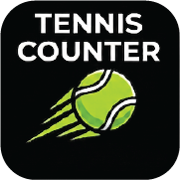
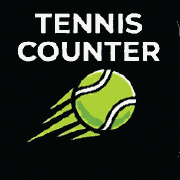
iPhone app: installable PWA
- web app manifest (standalone, portrait, black theme) + 192/512/maskable icons
- service worker: app shell precached, offline play with no signal,
  Google Apps Script sync stays network-only
- 12 iPhone launch screens (splash)
- full-bleed home-screen icon so iOS masking has no white corners
- installed-mode polish: black status-bar strip, overscroll lock,
  no tap highlight / long-press callout, home-indicator inset moved to the
  black footer strip
- iOS-only Add-to-Home-Screen nudge (dismissible) + offline/online toasts

diff --git a/index.html b/index.html
@@ -3,13 +3,36 @@
 <head>
   <meta charset="UTF-8" />
   <meta name="viewport" content="viewport-fit=cover, width=device-width, initial-scale=1.0, maximum-scale=1.0, user-scalable=no" />
-  <meta name="theme-color" content="#ffffff" />
+  <meta name="theme-color" content="#000000" />
+  <meta name="color-scheme" content="light dark" />
   <meta name="apple-mobile-web-app-capable" content="yes" />
+  <meta name="mobile-web-app-capable" content="yes" />
   <meta name="apple-mobile-web-app-status-bar-style" content="black-translucent" />
+  <meta name="apple-mobile-web-app-title" content="TennisCounter" />
+  <meta name="application-name" content="TennisCounter" />
+  <meta name="format-detection" content="telephone=no" />
   <title>TENNIS COUNTER · 網球表現追蹤</title>
-  <link rel="icon" href="/apple-touch-icon.png" />
-  <!-- Main Apple Touch Icon for iPhone Home Screen -->
+
+  <!-- Installable app -->
+  <link rel="manifest" href="/manifest.webmanifest">
+  <link rel="icon" href="/icon-192.png" sizes="192x192" type="image/png">
+  <!-- Home-screen icon (iOS ignores the manifest icons and uses this) -->
   <link rel="apple-touch-icon" sizes="180x180" href="/apple-touch-icon.png">
+
+  <!-- Launch screens -->
+  <link rel="apple-touch-startup-image" media="screen and (device-width: 440px) and (device-height: 956px) and (-webkit-device-pixel-ratio: 3)" href="/splash/splash-1320x2868.png">
+  <link rel="apple-touch-startup-image" media="screen and (device-width: 402px) and (device-height: 874px) and (-webkit-device-pixel-ratio: 3)" href="/splash/splash-1206x2622.png">
+  <link rel="apple-touch-startup-image" media="screen and (device-width: 393px) and (device-height: 852px) and (-webkit-device-pixel-ratio: 3)" href="/splash/splash-1179x2556.png">
+  <link rel="apple-touch-startup-image" media="screen and (device-width: 430px) and (device-height: 932px) and (-webkit-device-pixel-ratio: 3)" href="/splash/splash-1290x2796.png">
+  <link rel="apple-touch-startup-image" media="screen and (device-width: 390px) and (device-height: 844px) and (-webkit-device-pixel-ratio: 3)" href="/splash/splash-1170x2532.png">
+  <link rel="apple-touch-startup-image" media="screen and (device-width: 428px) and (device-height: 926px) and (-webkit-device-pixel-ratio: 3)" href="/splash/splash-1284x2778.png">
+  <link rel="apple-touch-startup-image" media="screen and (device-width: 375px) and (device-height: 812px) and (-webkit-device-pixel-ratio: 3)" href="/splash/splash-1125x2436.png">
+  <link rel="apple-touch-startup-image" media="screen and (device-width: 414px) and (device-height: 896px) and (-webkit-device-pixel-ratio: 3)" href="/splash/splash-1242x2688.png">
+  <link rel="apple-touch-startup-image" media="screen and (device-width: 414px) and (device-height: 896px) and (-webkit-device-pixel-ratio: 2)" href="/splash/splash-828x1792.png">
+  <link rel="apple-touch-startup-image" media="screen and (device-width: 414px) and (device-height: 736px) and (-webkit-device-pixel-ratio: 3)" href="/splash/splash-1242x2208.png">
+  <link rel="apple-touch-startup-image" media="screen and (device-width: 375px) and (device-height: 667px) and (-webkit-device-pixel-ratio: 2)" href="/splash/splash-750x1334.png">
+  <link rel="apple-touch-startup-image" media="screen and (device-width: 320px) and (device-height: 568px) and (-webkit-device-pixel-ratio: 2)" href="/splash/splash-640x1136.png">
+
   <link rel="preconnect" href="https://fonts.googleapis.com">
   <link rel="preconnect" href="https://fonts.gstatic.com" crossorigin>
   <link href="https://fonts.googleapis.com/css2?family=Inter:wght@400;500;700;800;900&display=swap" rel="stylesheet">
@@ -97,7 +120,7 @@
     }
 
     * { box-sizing: border-box; }
-    html, body { height: 100%; overflow-x: clip; }
+    html, body { height: 100%; overflow-x: clip; -webkit-tap-highlight-color: transparent; }
     body {
       margin: 0;
       font-family: var(--font-body);
@@ -215,7 +238,7 @@
       background: var(--canvas);
       border-top: 1px solid var(--border-2);
       display: grid; grid-template-columns: repeat(4, 1fr);
-      padding: 6px 8px calc(env(safe-area-inset-bottom) + 6px);
+      padding: 6px 8px;
     }
     #nav button {
       appearance: none; border: 0; background: transparent; cursor: pointer;
@@ -232,8 +255,23 @@
       background: #000000; color: #ffffff;
       display: flex; align-items: center;
       min-height: var(--footer-h);
-      padding: 6px 18px 8px;
+      padding: 6px 18px calc(env(safe-area-inset-bottom) + 8px);
       font-size: 0.82rem; font-weight: 700; letter-spacing: 0.12em;
+    }
+
+    /* ---------- Installed-app polish (added to iPhone Home Screen) ---------- */
+    button, .chip, #nav button, .theme-toggle, .seg .chip {
+      -webkit-touch-callout: none; -webkit-user-select: none; user-select: none;
+    }
+    @media (display-mode: standalone), (display-mode: fullscreen) {
+      html, body { overscroll-behavior-y: none; }
+      /* iOS draws the clock/battery in white over the app, so keep that strip
+         on-brand black — it mirrors the black "Carpi Diem" strip at the foot. */
+      body::before {
+        content: ""; position: fixed; top: 0; left: 0; right: 0;
+        height: env(safe-area-inset-top); background: #000000;
+        z-index: 60; pointer-events: none;
+      }
     }
 
     /* ---------- Home hero ---------- */
@@ -415,6 +453,28 @@
       z-index: 50; white-space: nowrap;
     }
     .toast.show { opacity: 1; transform: translateX(-50%) translateY(0); }
+
+    /* ---------- "Add to Home Screen" hint (iOS Safari only, dismissible) ---------- */
+    .a2hs {
+      position: fixed; z-index: 45;
+      left: 12px; right: 12px; max-width: 516px; margin: 0 auto;
+      bottom: calc(env(safe-area-inset-bottom) + var(--footer-h) + 84px);
+      display: flex; align-items: center; gap: 10px;
+      background: var(--carbon); color: #ffffff;
+      border-radius: var(--r-m); padding: 10px 12px;
+      box-shadow: 0 12px 32px rgba(0,0,0,0.26);
+      animation: fade 260ms var(--ease-out);
+    }
+    .a2hs[hidden] { display: none; }
+    .a2hs-ic { font-size: 1.35rem; line-height: 1; flex: none; }
+    .a2hs-tx { flex: 1; min-width: 0; display: flex; flex-direction: column; gap: 3px; }
+    .a2hs-tx b { font-size: 0.86rem; font-weight: 800; letter-spacing: -0.01em; }
+    .a2hs-tx i { font-style: normal; font-size: 0.71rem; line-height: 1.35; color: rgba(255,255,255,0.72); }
+    .a2hs-x {
+      appearance: none; border: 0; flex: none; cursor: pointer;
+      width: 26px; height: 26px; border-radius: 999px;
+      background: rgba(255,255,255,0.16); color: #ffffff; font-size: 0.78rem; line-height: 1;
+    }
     .disclaim { text-align: center; color: var(--muted); font-size: 0.72rem; padding: 4px 16px 0; }
     .result-banner { text-align: center; font-family: var(--font-display); font-weight: 900; font-size: 1.4rem; padding: 8px 0 4px; letter-spacing: -0.02em; }
     .result-banner.win { color: var(--white); }
@@ -720,6 +780,14 @@
       <button data-nav="report"><span class="ic">📄</span><span data-i18n="nav_report">報告</span></button>
     </nav>
     <div class="footing" aria-label="標語">Carpi Diem</div>
+  </div>
+  <div class="a2hs" id="a2hs" hidden>
+    <span class="a2hs-ic">🎾</span>
+    <span class="a2hs-tx">
+      <b data-i18n="a2hs_t">加到主畫面</b>
+      <i data-i18n="a2hs_d">撳「分享 ⬆」再揀「加入主畫面」，就可以全螢幕 + 離線用</i>
+    </span>
+    <button class="a2hs-x" type="button" onclick="dismissA2HS()" aria-label="關閉／Close">✕</button>
   </div>
   <div class="toast" id="toast"></div>
 
@@ -1856,6 +1924,8 @@
     /* ---------- Bilingual (i18n) ---------- */
     const I18N = {
       nav_home:["首頁","Home"], nav_record:["記錄","Record"], nav_analysis:["分析","Analysis"], nav_report:["報告","Report"],
+      a2hs_t:["加到主畫面","Add to Home Screen"],
+      a2hs_d:["撳「分享 ⬆」再揀「加入主畫面」，就可以全螢幕 + 離線用","Tap Share ⬆, then \u201cAdd to Home Screen\u201d for full screen + offline play"],
       brand_sub:["網球表現追蹤 · 一鍵記賽","Tennis match tracker · tap to record"],
       hero_title:["今日打得點？","How did today go?"], cta_start:["開一場新比賽","Start a match"],
       setup_eyebrow:["快速設定","Quick setup"], player_name:["球手名字","Player name"], player_age:["球手年齡","Age"],
@@ -1952,6 +2022,31 @@
     renderHome();
     syncFromServer();
     setInterval(() => { if (currentView === "home") renderCountdown(); }, 60000);
+
+    /* ---------- Installed app: offline shell + "Add to Home Screen" nudge ---------- */
+    const isStandalone = () => (window.navigator.standalone === true) ||
+      (window.matchMedia && window.matchMedia("(display-mode: standalone)").matches);
+    const isIOSSafari = () => /iP(hone|ad|od)/.test(navigator.userAgent) &&
+      /Safari/.test(navigator.userAgent) && !/CriOS|FxiOS|EdgiOS|OPiOS/.test(navigator.userAgent);
+
+    if ("serviceWorker" in navigator && /^https?:$/.test(location.protocol)) {
+      window.addEventListener("load", () => { navigator.serviceWorker.register("/sw.js").catch(() => {}); });
+    }
+
+    function dismissA2HS() {
+      const el = document.getElementById("a2hs"); if (el) el.hidden = true;
+      try { localStorage.setItem("tb:a2hs", "off"); } catch (e) {}
+    }
+    function initA2HS() {
+      const el = document.getElementById("a2hs"); if (!el) return;
+      let seen = null; try { seen = localStorage.getItem("tb:a2hs"); } catch (e) {}
+      if (seen === "off" || isStandalone() || !isIOSSafari()) return;
+      el.hidden = false;
+    }
+    initA2HS();
+
+    window.addEventListener("offline", () => toast(tr("離線模式 · 一樣記到落呢部 iPhone", "Offline · still saving on this iPhone")));
+    window.addEventListener("online", () => toast(tr("已重新連線", "Back online")));
   </script>
 </body>
 </html>

diff --git a/sw.js b/sw.js
@@ -1,0 +1,134 @@
+/* TENNIS COUNTER — service worker
+   Goal: the app opens instantly and works with no signal (e.g. on court). */
+
+const VERSION = "tb-v1";
+const SHELL_CACHE = `${VERSION}-shell`;
+const RUNTIME_CACHE = `${VERSION}-runtime`;
+
+// App shell: everything needed to boot with no network.
+const SHELL = [
+  "/",
+  "/index.html",
+  "/manifest.webmanifest",
+  "/apple-touch-icon.png",
+  "/icon-192.png",
+  "/icon-512.png"
+];
+
+self.addEventListener("install", (event) => {
+  event.waitUntil(
+    (async () => {
+      const cache = await caches.open(SHELL_CACHE);
+      // addAll fails the whole install if one file 404s, so add individually.
+      await Promise.all(
+        SHELL.map((url) =>
+          cache.add(new Request(url, { cache: "reload" })).catch(() => null)
+        )
+      );
+      await self.skipWaiting();
+    })()
+  );
+});
+
+self.addEventListener("activate", (event) => {
+  event.waitUntil(
+    (async () => {
+      const keys = await caches.keys();
+      await Promise.all(
+        keys
+          .filter((k) => !k.startsWith(VERSION))
+          .map((k) => caches.delete(k))
+      );
+      if (self.registration.navigationPreload) {
+        await self.registration.navigationPreload.enable().catch(() => {});
+      }
+      await self.clients.claim();
+    })()
+  );
+});
+
+const isBackend = (url) =>
+  url.hostname.endsWith("script.google.com") ||
+  url.hostname.endsWith("googleusercontent.com");
+
+self.addEventListener("fetch", (event) => {
+  const req = event.request;
+  if (req.method !== "GET") return;
+
+  const url = new URL(req.url);
+
+  // Never cache the Google Apps Script sync backend — always live.
+  if (isBackend(url)) return;
+
+  // 1) Navigations: newest version when online, cached app when offline.
+  if (req.mode === "navigate") {
+    event.respondWith(
+      (async () => {
+        try {
+          const preload = await event.preloadResponse;
+          if (preload) {
+            const copy = preload.clone();
+            caches.open(SHELL_CACHE).then((c) => c.put("/index.html", copy));
+            return preload;
+          }
+          const fresh = await fetch(req);
+          const copy = fresh.clone();
+          caches.open(SHELL_CACHE).then((c) => c.put("/index.html", copy));
+          return fresh;
+        } catch (e) {
+          const cache = await caches.open(SHELL_CACHE);
+          return (
+            (await cache.match("/index.html")) ||
+            (await cache.match("/")) ||
+            new Response("離線中 · Offline", {
+              status: 503,
+              headers: { "Content-Type": "text/plain; charset=utf-8" }
+            })
+          );
+        }
+      })()
+    );
+    return;
+  }
+
+  // 2) Same-origin assets: cache first, refresh in the background.
+  if (url.origin === self.location.origin) {
+    event.respondWith(
+      (async () => {
+        const cache = await caches.open(SHELL_CACHE);
+        const hit = await cache.match(req);
+        const network = fetch(req)
+          .then((res) => {
+            if (res && res.ok) cache.put(req, res.clone());
+            return res;
+          })
+          .catch(() => null);
+        return hit || (await network) || new Response("", { status: 504 });
+      })()
+    );
+    return;
+  }
+
+  // 3) Third-party assets (web fonts, etc.): serve cached instantly,
+  //    refresh in the background so the app still looks right offline.
+  event.respondWith(
+    (async () => {
+      const cache = await caches.open(RUNTIME_CACHE);
+      const hit = await cache.match(req);
+      const network = fetch(req)
+        .then((res) => {
+          if (res && (res.ok || res.type === "opaque")) {
+            cache.put(req, res.clone());
+          }
+          return res;
+        })
+        .catch(() => null);
+      return hit || (await network) || Response.error();
+    })()
+  );
+});
+
+// Let the page ask a waiting worker to take over immediately.
+self.addEventListener("message", (event) => {
+  if (event.data === "skip-waiting") self.skipWaiting();
+});
